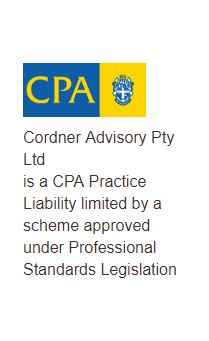
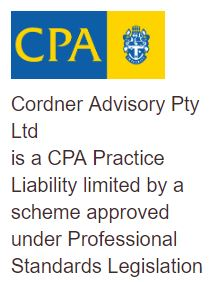
update images again

diff --git a/src/templates/ContactPage.js b/src/templates/ContactPage.js
@@ -60,7 +60,7 @@ export const ContactPageTemplate = ({
 
           <div className="images-box flex">
             <Image src="/images/uploads/cpa.jpg" />
-            <Image src="/images/uploads/tax.jpg" />
+            <Image src="/images/uploads/tax-1.jpg" />
           </div>
         </div>
         <div>

diff --git a/src/templates/ContactPage.css b/src/templates/ContactPage.css
@@ -26,11 +26,13 @@
 }
 
 .images-box img {
-  width: 30%;
-  height: fit-content !important;
+  width: 120px;
+  height: 100%;
+  margin-right: 2rem;
 }
 
 .images-box {
+  margin-top: 2rem;
   justify-content: end !important;
 }
 
